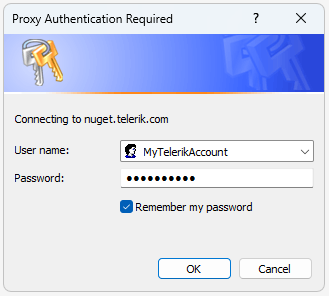
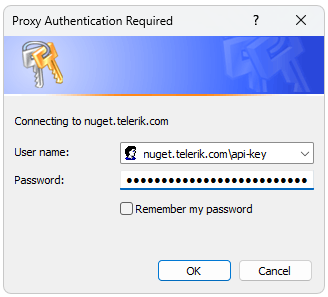
Download from the NuGet server

diff --git a/getting-started/Installation/install-nuget-packages.md b/getting-started/Installation/install-nuget-packages.md
@@ -49,7 +49,42 @@ This approach allows you to setup a local NuGet package source, so you can insta
 
 ## Download from the NuGet server
 
-Before you can install Telerik NuGet packages, you must configure the Telerik NuGet server (https://nuget.telerik.com/v3/index.json) as a package source in Visual Studio:
+To install the Telerik Document Processing Libraries, you can use the NuGet packages hosted on the public Telerik NuGet server. This online source lets you download and install various versions of the Document Processing libraries and enables quick updates with minimal manual intervention.
+
+Before adding the Telerik NuGet server to Visual Studio, make sure you have:
+
+* A commercial or trial license that includes Document Processing. Note that the Telerik NuGet server requires authentication and checks if you have a valid license.
+
+* Generate an API key - As the Telerik NuGet server requires authentication, the first step is to obtain an API key that you will use instead of a password. Using an API key instead of a password is a more secure approach, especially when working with .NET CLI or the NuGet.Config file.
+
+### Generate an API Key
+
+1. Go to the [API Keys](https://www.telerik.com/account/downloads/api-keys) page in your Telerik account.
+
+1. Click **Generate New Key +**.
+
+    ![Generate API key](images/generate-api-key.png) 
+
+1. In the **Key Note** field, add a note that describes the API key.
+
+1. Click `Generate Key`.
+
+    ![Generate API key](images/generate-key-button.png) 
+
+1. Select `Copy and Close`. Once you close the window, you can no longer copy the generated key. For security reasons, the API Keys page displays only a portion of the key.
+
+    ![Generated API key](images/generatee-api-key.png)  
+
+1. Store the generated NuGet API key as you will need it in the next steps. Whenever you need to authenticate your system with the Telerik NuGet server, use api-key as the username and your generated API key as the password.
+
+### Add the Telerik NuGet Package Source to Visual Studio
+
+Before you can install Telerik NuGet packages, you must configure the Telerik NuGet server as a package source in Visual Studio: 
+
+
+```
+https://nuget.telerik.com/v3/index.json
+```
 
 1\. In the Visual Studio Solution Explorer, right-click a Project, select **Manage NuGet Packages...**, and then select the **Settings** icon:
 
@@ -66,6 +101,22 @@ Before you can install Telerik NuGet packages, you must configure the Telerik Nu
 4\. Select and install the desired NuGet packages.
 
 ![installation-nuget-packages 004](images/installation-nuget-packages004.png)
+
+You have successfully added the Telerik NuGet feed as a Package source.
+
+### Reset Store Credentials
+
+If you previously stored credentials for the Telerik NuGet server, you need to reset them to be able to authenticate with your new API key. Here are the steps you need to follow:
+
+1. Remove the saved credentials in the [Windows Credential Manager](https://support.microsoft.com/en-us/windows/accessing-credential-manager-1b5c916a-6a16-889f-8581-fc16e8165ac0). These credentials will appear as `nuget.telerik.com` or `VSCredentials_nuget.telerik.com` entries.
+2. Remove the Telerik NuGet package source from Visual Studio.
+3. If you have added the Telerik package source by using the .NET CLI, try to remove it by running the following commands:
+    * [`dotnet nuget list source`](https://docs.microsoft.com/en-us/dotnet/core/tools/dotnet-nuget-list-source)
+    * [`dotnet nuget remove source`](https://docs.microsoft.com/en-us/dotnet/core/tools/dotnet-nuget-remove-source)
+4. Check if you have any credentials stored in `%AppData%\NuGet\Nuget.Config`. If so, remove them.
+5. Try to reset the Visual Studio user data by [forcing NuGet to ask for authentication](https://stackoverflow.com/questions/43550797/how-to-force-nuget-to-ask-for-authentication-when-connecting-to-a-private-feed).
+6. Restart Visual Studio.
+7. Add the Telerik NuGet package source again through Visual Studio or .NET CLI. If you are using the Telerik NuGet feed in a .NET Core application, use a NuGet API key in the NuGet.Config file]({%slug telerik-nuget-source%}#edit-the-nugetconfig-file).
 
 ## See Also
 

diff --git a/getting-started/Installation/telerik-nuget-source.md b/getting-started/Installation/telerik-nuget-source.md
@@ -131,7 +131,9 @@ To edit a `NuGet.Config` file and add the Telerik feed, you need to:
 There are two ways to authenticate with the Telerik NuGet server when you add the Telerik NuGet source [with the .NET CLI](#use-the-net-cli) or [edit the `NuGet.Config` file manually](#edit-the-nuget-config-file):
 
 * Use your Telerik account email as the username, and your Telerik password.
-* Use `api-key` as the username and your personal [NuGet API Key]({%slug using-nuget-keys%}) as the password.
+* Use `api-key` (**recommended**) as the **username** and your personal [NuGet API Key]({%slug using-nuget-keys%}) as the password.
+
+>important Using an API key minimizes the risk of exposing client credentials when configuring NuGet access. User credentials grant full access to the user account, while the API key limits access to the NuGet feed only. 
 
 You can [generate your Telerik NuGet API Key on telerik.com](https://www.telerik.com/account/downloads/nuget-keys). Read more about  [Restoring NuGet Packages in Your CI Workflow]({%slug using-nuget-keys%}).
 

diff --git a/getting-started/Installation/nuget-keys.md b/getting-started/Installation/nuget-keys.md
@@ -3,7 +3,7 @@ title: Restoring NuGet Packages in CI
 page_title: Restoring NuGet Packages in CI 
 description: Learn how to use NuGet Keys to authenticate with the Telerik NuGet server and restore Telerik Document Processing packages in your CI or desktop environment.
 slug: using-nuget-keys
-tags: telerik, document, processing, restore, nuget, packages, ci, continuous, integration, installation
+tags: telerik, document, processing, restore, nuget, packages, ci, continuous, integration, installation, api, key
 published: True
 position: 9
 ---
